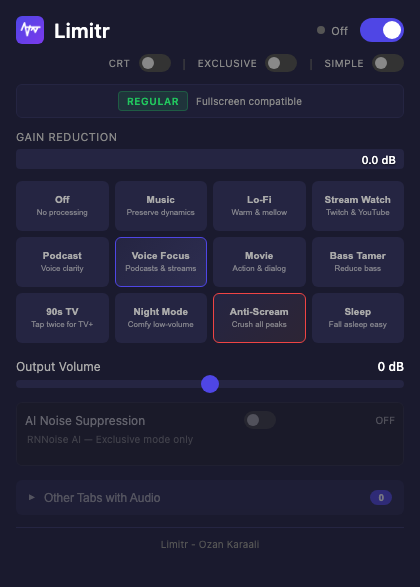
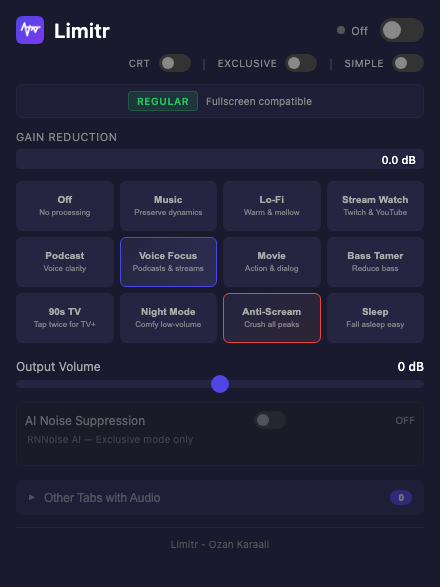
fix: Widen screenshot viewport and top-align README images
Screenshots were clipped on the right side at 420px viewport. Widened
to 440px and switched README to table layout with valign="top" so
different-height screenshots align at the top.

diff --git a/tests/take-screenshots.js b/tests/take-screenshots.js
@@ -79,7 +79,7 @@ async function containerClip(page, width) {
       '--no-first-run',
       '--disable-gpu',
     ],
-    viewport: { width: 420, height: 900 },
+    viewport: { width: 440, height: 900 },
   });
 
   // Get extension ID
@@ -100,9 +100,16 @@ async function containerClip(page, width) {
   await page.waitForLoadState('networkidle');
   await page.waitForTimeout(500);
 
+  // Make sure toggle is off so it matches the "Off" status text
+  const enabledToggle = page.locator('#enabled');
+  if (await enabledToggle.isChecked()) {
+    await page.locator('.toggle:has(#enabled)').click();
+    await page.waitForTimeout(200);
+  }
+
   await page.screenshot({
     path: path.join(SCREENSHOTS_DIR, 'screenshot-1-simple-mode.png'),
-    clip: await containerClip(page, 420),
+    clip: await containerClip(page, 440),
   });
   console.log('1/3 Simple mode');
 
@@ -130,7 +137,7 @@ async function containerClip(page, width) {
   await page.waitForTimeout(100);
   await page.screenshot({
     path: path.join(SCREENSHOTS_DIR, 'screenshot-2-active-exclusive.png'),
-    clip: await containerClip(page, 420),
+    clip: await containerClip(page, 440),
   });
   console.log('2/3 Active Exclusive + Night Mode + GR');
 

diff --git a/README.md b/README.md
@@ -9,11 +9,13 @@
   Perfect for streaming sites where audio levels can vary wildly.
 </p>
 
-<p align="center">
-  <img src="docs/assets/screenshot-1-simple-mode.png" alt="Simple Mode" width="270">
-  <img src="docs/assets/screenshot-2-active-exclusive.png" alt="Active Exclusive Mode" width="270">
-  <img src="docs/assets/screenshot-3-advanced-mode.png" alt="Advanced Mode" width="270">
-</p>
+<table align="center">
+  <tr>
+    <td valign="top"><img src="docs/assets/screenshot-1-simple-mode.png" alt="Simple Mode" width="270"></td>
+    <td valign="top"><img src="docs/assets/screenshot-2-active-exclusive.png" alt="Active Exclusive Mode" width="270"></td>
+    <td valign="top"><img src="docs/assets/screenshot-3-advanced-mode.png" alt="Advanced Mode" width="270"></td>
+  </tr>
+</table>
 
 ## Features
 
